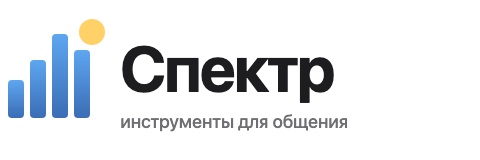
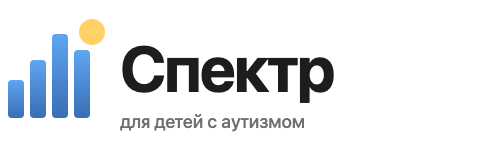
Sprint 26: messaging — «для детей с аутизмом» (вместо «РАС» в user-facing)
@user feedback: tagline 'инструменты для общения' слишком общий —
неясно для каких детей. Чёткая формулировка по всем surfaces:

Brand:
- wordmark.svg tagline: 'инструменты для общения' → 'для детей с аутизмом'
- wordmark.png re-rendered
- og-image.png (1200×630 share preview) tagline:
  'Инструменты для общения и поддержки' →
  'Инструменты для общения и поддержки детей с аутизмом'

Meta on all 8 HTML pages:
- description: 'для семей с детьми с расстройством аутистического спектра' →
  'для общения и поддержки детей с аутизмом'
- og:description / twitter:description: 'детей с РАС' → 'детей с аутизмом'

PWA manifest:
- description switched to 'Инструменты для общения и поддержки детей с аутизмом.'

TG @user_app_bot:
- /start text: 'инструменты для семей с детьми с РАС' →
  'инструменты для общения и поддержки детей с аутизмом'
- /about text: 'для семей с детьми с РАС (РАС)' → 'для общения и поддержки детей с аутизмом'
- Bot API setMyDescription + setMyShortDescription updated server-side
  (immediate effect — verified getMyDescription returns new text)

README.md tagline + beta sign-up line updated.

Rationale: 'аутизм' понятнее широкой публике без мед-бэкграунда чем
'РАС'. Не стигматизирует. Соответствует neurodiversity-affirming
positioning (никогда не 'лечение', только 'поддержка'). Внутренние
research-документы и parent_tips.json оставлены с 'РАС' — это
профессиональный термин для тех, кто пишет инструкции родителям.

SW v24.

Changed region(s): [[0.25, 0.7188, 0.75, 0.8438]]

diff --git a/static/aac.html b/static/aac.html
@@ -9,16 +9,16 @@
 <link rel="stylesheet" href="/static/css/tokens.css">
 <link rel="manifest" href="/manifest.webmanifest">
 <meta name="theme-color" content="#4a90e2">
-<meta name="description" content="Спектр — бесплатные инструменты коммуникации для семей с детьми с расстройством аутистического спектра. AAC, расписание, эмоции, истории.">
+<meta name="description" content="Спектр — бесплатные инструменты для общения и поддержки детей с аутизмом. AAC, расписание, эмоции, истории.">
 <meta property="og:title" content="Спектр">
-<meta property="og:description" content="Инструменты для общения и поддержки детей с РАС. Открыл ссылку — работает.">
+<meta property="og:description" content="Инструменты для общения и поддержки детей с аутизмом. Открыл ссылку — работает.">
 <meta property="og:image" content="https://spectrum-app.fly.dev/static/assets/og-image.png">
 <meta property="og:type" content="website">
 <meta property="og:url" content="https://spectrum-app.fly.dev/">
 <meta property="og:locale" content="ru_RU">
 <meta name="twitter:card" content="summary_large_image">
 <meta name="twitter:title" content="Спектр">
-<meta name="twitter:description" content="Инструменты для общения и поддержки детей с РАС.">
+<meta name="twitter:description" content="Инструменты для общения и поддержки детей с аутизмом.">
 <meta name="twitter:image" content="https://spectrum-app.fly.dev/static/assets/og-image.png">
 <link rel="icon" type="image/png" sizes="192x192" href="/static/assets/icon-192.png">
 <meta name="apple-mobile-web-app-capable" content="yes">

diff --git a/static/day.html b/static/day.html
@@ -9,16 +9,16 @@
 <link rel="stylesheet" href="/static/css/tokens.css">
 <link rel="manifest" href="/manifest.webmanifest">
 <meta name="theme-color" content="#4a90e2">
-<meta name="description" content="Спектр — бесплатные инструменты коммуникации для семей с детьми с расстройством аутистического спектра. AAC, расписание, эмоции, истории.">
+<meta name="description" content="Спектр — бесплатные инструменты для общения и поддержки детей с аутизмом. AAC, расписание, эмоции, истории.">
 <meta property="og:title" content="Спектр">
-<meta property="og:description" content="Инструменты для общения и поддержки детей с РАС. Открыл ссылку — работает.">
+<meta property="og:description" content="Инструменты для общения и поддержки детей с аутизмом. Открыл ссылку — работает.">
 <meta property="og:image" content="https://spectrum-app.fly.dev/static/assets/og-image.png">
 <meta property="og:type" content="website">
 <meta property="og:url" content="https://spectrum-app.fly.dev/">
 <meta property="og:locale" content="ru_RU">
 <meta name="twitter:card" content="summary_large_image">
 <meta name="twitter:title" content="Спектр">
-<meta name="twitter:description" content="Инструменты для общения и поддержки детей с РАС.">
+<meta name="twitter:description" content="Инструменты для общения и поддержки детей с аутизмом.">
 <meta name="twitter:image" content="https://spectrum-app.fly.dev/static/assets/og-image.png">
 <link rel="icon" type="image/png" sizes="192x192" href="/static/assets/icon-192.png">
 <meta name="apple-mobile-web-app-capable" content="yes">

diff --git a/static/emotions.html b/static/emotions.html
@@ -9,16 +9,16 @@
 <link rel="stylesheet" href="/static/css/tokens.css">
 <link rel="manifest" href="/manifest.webmanifest">
 <meta name="theme-color" content="#4a90e2">
-<meta name="description" content="Спектр — бесплатные инструменты коммуникации для семей с детьми с расстройством аутистического спектра. AAC, расписание, эмоции, истории.">
+<meta name="description" content="Спектр — бесплатные инструменты для общения и поддержки детей с аутизмом. AAC, расписание, эмоции, истории.">
 <meta property="og:title" content="Спектр">
-<meta property="og:description" content="Инструменты для общения и поддержки детей с РАС. Открыл ссылку — работает.">
+<meta property="og:description" content="Инструменты для общения и поддержки детей с аутизмом. Открыл ссылку — работает.">
 <meta property="og:image" content="https://spectrum-app.fly.dev/static/assets/og-image.png">
 <meta property="og:type" content="website">
 <meta property="og:url" content="https://spectrum-app.fly.dev/">
 <meta property="og:locale" content="ru_RU">
 <meta name="twitter:card" content="summary_large_image">
 <meta name="twitter:title" content="Спектр">
-<meta name="twitter:description" content="Инструменты для общения и поддержки детей с РАС.">
+<meta name="twitter:description" content="Инструменты для общения и поддержки детей с аутизмом.">
 <meta name="twitter:image" content="https://spectrum-app.fly.dev/static/assets/og-image.png">
 <link rel="icon" type="image/png" sizes="192x192" href="/static/assets/icon-192.png">
 <meta name="apple-mobile-web-app-capable" content="yes">

diff --git a/static/index.html b/static/index.html
@@ -8,16 +8,16 @@
 <link rel="stylesheet" href="/static/css/tokens.css">
 <link rel="manifest" href="/manifest.webmanifest">
 <meta name="theme-color" content="#4a90e2">
-<meta name="description" content="Спектр — бесплатные инструменты коммуникации для семей с детьми с расстройством аутистического спектра. AAC, расписание, эмоции, истории.">
+<meta name="description" content="Спектр — бесплатные инструменты для общения и поддержки детей с аутизмом. AAC, расписание, эмоции, истории.">
 <meta property="og:title" content="Спектр">
-<meta property="og:description" content="Инструменты для общения и поддержки детей с РАС. Открыл ссылку — работает.">
+<meta property="og:description" content="Инструменты для общения и поддержки детей с аутизмом. Открыл ссылку — работает.">
 <meta property="og:image" content="https://spectrum-app.fly.dev/static/assets/og-image.png">
 <meta property="og:type" content="website">
 <meta property="og:url" content="https://spectrum-app.fly.dev/">
 <meta property="og:locale" content="ru_RU">
 <meta name="twitter:card" content="summary_large_image">
 <meta name="twitter:title" content="Спектр">
-<meta name="twitter:description" content="Инструменты для общения и поддержки детей с РАС.">
+<meta name="twitter:description" content="Инструменты для общения и поддержки детей с аутизмом.">
 <meta name="twitter:image" content="https://spectrum-app.fly.dev/static/assets/og-image.png">
 <link rel="icon" type="image/png" sizes="192x192" href="/static/assets/icon-192.png">
 <meta name="apple-mobile-web-app-capable" content="yes">

diff --git a/static/mood.html b/static/mood.html
@@ -9,16 +9,16 @@
 <link rel="stylesheet" href="/static/css/tokens.css">
 <link rel="manifest" href="/manifest.webmanifest">
 <meta name="theme-color" content="#4a90e2">
-<meta name="description" content="Спектр — бесплатные инструменты коммуникации для семей с детьми с расстройством аутистического спектра. AAC, расписание, эмоции, истории.">
+<meta name="description" content="Спектр — бесплатные инструменты для общения и поддержки детей с аутизмом. AAC, расписание, эмоции, истории.">
 <meta property="og:title" content="Спектр">
-<meta property="og:description" content="Инструменты для общения и поддержки детей с РАС. Открыл ссылку — работает.">
+<meta property="og:description" content="Инструменты для общения и поддержки детей с аутизмом. Открыл ссылку — работает.">
 <meta property="og:image" content="https://spectrum-app.fly.dev/static/assets/og-image.png">
 <meta property="og:type" content="website">
 <meta property="og:url" content="https://spectrum-app.fly.dev/">
 <meta property="og:locale" content="ru_RU">
 <meta name="twitter:card" content="summary_large_image">
 <meta name="twitter:title" content="Спектр">
-<meta name="twitter:description" content="Инструменты для общения и поддержки детей с РАС.">
+<meta name="twitter:description" content="Инструменты для общения и поддержки детей с аутизмом.">
 <meta name="twitter:image" content="https://spectrum-app.fly.dev/static/assets/og-image.png">
 <link rel="icon" type="image/png" sizes="192x192" href="/static/assets/icon-192.png">
 <meta name="apple-mobile-web-app-capable" content="yes">

diff --git a/static/onboarding.html b/static/onboarding.html
@@ -9,16 +9,16 @@
 <link rel="stylesheet" href="/static/css/tokens.css">
 <link rel="manifest" href="/manifest.webmanifest">
 <meta name="theme-color" content="#4a90e2">
-<meta name="description" content="Спектр — бесплатные инструменты коммуникации для семей с детьми с расстройством аутистического спектра. AAC, расписание, эмоции, истории.">
+<meta name="description" content="Спектр — бесплатные инструменты для общения и поддержки детей с аутизмом. AAC, расписание, эмоции, истории.">
 <meta property="og:title" content="Спектр">
-<meta property="og:description" content="Инструменты для общения и поддержки детей с РАС. Открыл ссылку — работает.">
+<meta property="og:description" content="Инструменты для общения и поддержки детей с аутизмом. Открыл ссылку — работает.">
 <meta property="og:image" content="https://spectrum-app.fly.dev/static/assets/og-image.png">
 <meta property="og:type" content="website">
 <meta property="og:url" content="https://spectrum-app.fly.dev/">
 <meta property="og:locale" content="ru_RU">
 <meta name="twitter:card" content="summary_large_image">
 <meta name="twitter:title" content="Спектр">
-<meta name="twitter:description" content="Инструменты для общения и поддержки детей с РАС.">
+<meta name="twitter:description" content="Инструменты для общения и поддержки детей с аутизмом.">
 <meta name="twitter:image" content="https://spectrum-app.fly.dev/static/assets/og-image.png">
 <link rel="icon" type="image/png" sizes="192x192" href="/static/assets/icon-192.png">
 <meta name="apple-mobile-web-app-capable" content="yes">

diff --git a/static/parent.html b/static/parent.html
@@ -9,16 +9,16 @@
 <link rel="stylesheet" href="/static/css/tokens.css">
 <link rel="manifest" href="/manifest.webmanifest">
 <meta name="theme-color" content="#4a90e2">
-<meta name="description" content="Спектр — бесплатные инструменты коммуникации для семей с детьми с расстройством аутистического спектра. AAC, расписание, эмоции, истории.">
+<meta name="description" content="Спектр — бесплатные инструменты для общения и поддержки детей с аутизмом. AAC, расписание, эмоции, истории.">
 <meta property="og:title" content="Спектр">
-<meta property="og:description" content="Инструменты для общения и поддержки детей с РАС. Открыл ссылку — работает.">
+<meta property="og:description" content="Инструменты для общения и поддержки детей с аутизмом. Открыл ссылку — работает.">
 <meta property="og:image" content="https://spectrum-app.fly.dev/static/assets/og-image.png">
 <meta property="og:type" content="website">
 <meta property="og:url" content="https://spectrum-app.fly.dev/">
 <meta property="og:locale" content="ru_RU">
 <meta name="twitter:card" content="summary_large_image">
 <meta name="twitter:title" content="Спектр">
-<meta name="twitter:description" content="Инструменты для общения и поддержки детей с РАС.">
+<meta name="twitter:description" content="Инструменты для общения и поддержки детей с аутизмом.">
 <meta name="twitter:image" content="https://spectrum-app.fly.dev/static/assets/og-image.png">
 <link rel="icon" type="image/png" sizes="192x192" href="/static/assets/icon-192.png">
 <meta name="apple-mobile-web-app-capable" content="yes">

diff --git a/static/stories.html b/static/stories.html
@@ -9,16 +9,16 @@
 <link rel="stylesheet" href="/static/css/tokens.css">
 <link rel="manifest" href="/manifest.webmanifest">
 <meta name="theme-color" content="#4a90e2">
-<meta name="description" content="Спектр — бесплатные инструменты коммуникации для семей с детьми с расстройством аутистического спектра. AAC, расписание, эмоции, истории.">
+<meta name="description" content="Спектр — бесплатные инструменты для общения и поддержки детей с аутизмом. AAC, расписание, эмоции, истории.">
 <meta property="og:title" content="Спектр">
-<meta property="og:description" content="Инструменты для общения и поддержки детей с РАС. Открыл ссылку — работает.">
+<meta property="og:description" content="Инструменты для общения и поддержки детей с аутизмом. Открыл ссылку — работает.">
 <meta property="og:image" content="https://spectrum-app.fly.dev/static/assets/og-image.png">
 <meta property="og:type" content="website">
 <meta property="og:url" content="https://spectrum-app.fly.dev/">
 <meta property="og:locale" content="ru_RU">
 <meta name="twitter:card" content="summary_large_image">
 <meta name="twitter:title" content="Спектр">
-<meta name="twitter:description" content="Инструменты для общения и поддержки детей с РАС.">
+<meta name="twitter:description" content="Инструменты для общения и поддержки детей с аутизмом.">
 <meta name="twitter:image" content="https://spectrum-app.fly.dev/static/assets/og-image.png">
 <link rel="icon" type="image/png" sizes="192x192" href="/static/assets/icon-192.png">
 <meta name="apple-mobile-web-app-capable" content="yes">

diff --git a/static/sw.js b/static/sw.js
@@ -10,7 +10,7 @@
  *
  * Bump CACHE_VERSION on every release to force re-fetch of assets.
  */
-const CACHE_VERSION = 'spectrum-v23-2026-05-30';
+const CACHE_VERSION = 'spectrum-v24-2026-05-30';
 const SHELL_CACHE = 'shell-' + CACHE_VERSION;
 const RUNTIME_CACHE = 'runtime-' + CACHE_VERSION;
 

diff --git a/modules/tg_bot.py b/modules/tg_bot.py
@@ -16,8 +16,8 @@ PUBLIC_URL = os.environ.get("PUBLIC_URL", "https://spectrum-app.fly.dev")
 
 
 _START_TEXT = (
-    "Привет! Это Спектр — инструменты для семей с детьми с РАС.\n\n"
-    "В Спектре есть:\n"
+    "Привет! Это Спектр — инструменты для общения и поддержки детей с аутизмом.\n\n"
+    "Внутри:\n"
     "💬 Голос — карточки и фразы\n"
     "📅 День — расписание и шаги\n"
     "😊 Эмоции — игра на распознавание\n"
@@ -28,8 +28,7 @@ _START_TEXT = (
 )
 
 _ABOUT_TEXT = (
-    "Спектр — бесплатное приложение для семей с детьми с расстройством "
-    "аутистического спектра (РАС).\n\n"
+    "Спектр — бесплатное приложение для общения и поддержки детей с аутизмом.\n\n"
     "Что внутри (всё работает офлайн):\n"
     "• AAC-коммуникатор (карточки, фразы, запись родительского голоса)\n"
     "• Визуальное расписание с готовыми и своими распорядками\n"

diff --git a/README.md b/README.md
@@ -1,6 +1,6 @@
 # Спектр
 
-> Бесплатное TG mini-app + PWA для семей с детьми и подростками с расстройством аутистического спектра (РАС). 6 модулей, работает офлайн, без рекламы, без подписки, без сбора персональных данных. Русскоязычное, под российский быт.
+> Бесплатное TG mini-app + PWA для общения и поддержки детей с аутизмом и их семей. 6 модулей, работает офлайн, без рекламы, без подписки, без сбора персональных данных. Русскоязычное, под российский быт.
 
 🌐 **https://spectrum-app.fly.dev** · 📦 9 спринтов · 🇷🇺 ru-RU только
 
@@ -243,7 +243,7 @@ Educational content & data files: CC BY-NC-SA 4.0 (планируется)
 
 ## Связь и contributions
 
-Pull requests welcome. Если у вас есть feedback — open issue. Если вы родитель ребёнка с РАС и хотите попасть в бету — напишите в [@skol4356](https://t.me/skol4356).
+Pull requests welcome. Если у вас есть feedback — open issue. Если вы родитель ребёнка с аутизмом и хотите попасть в бету — напишите в [@skol4356](https://t.me/skol4356).
 
 ---
 